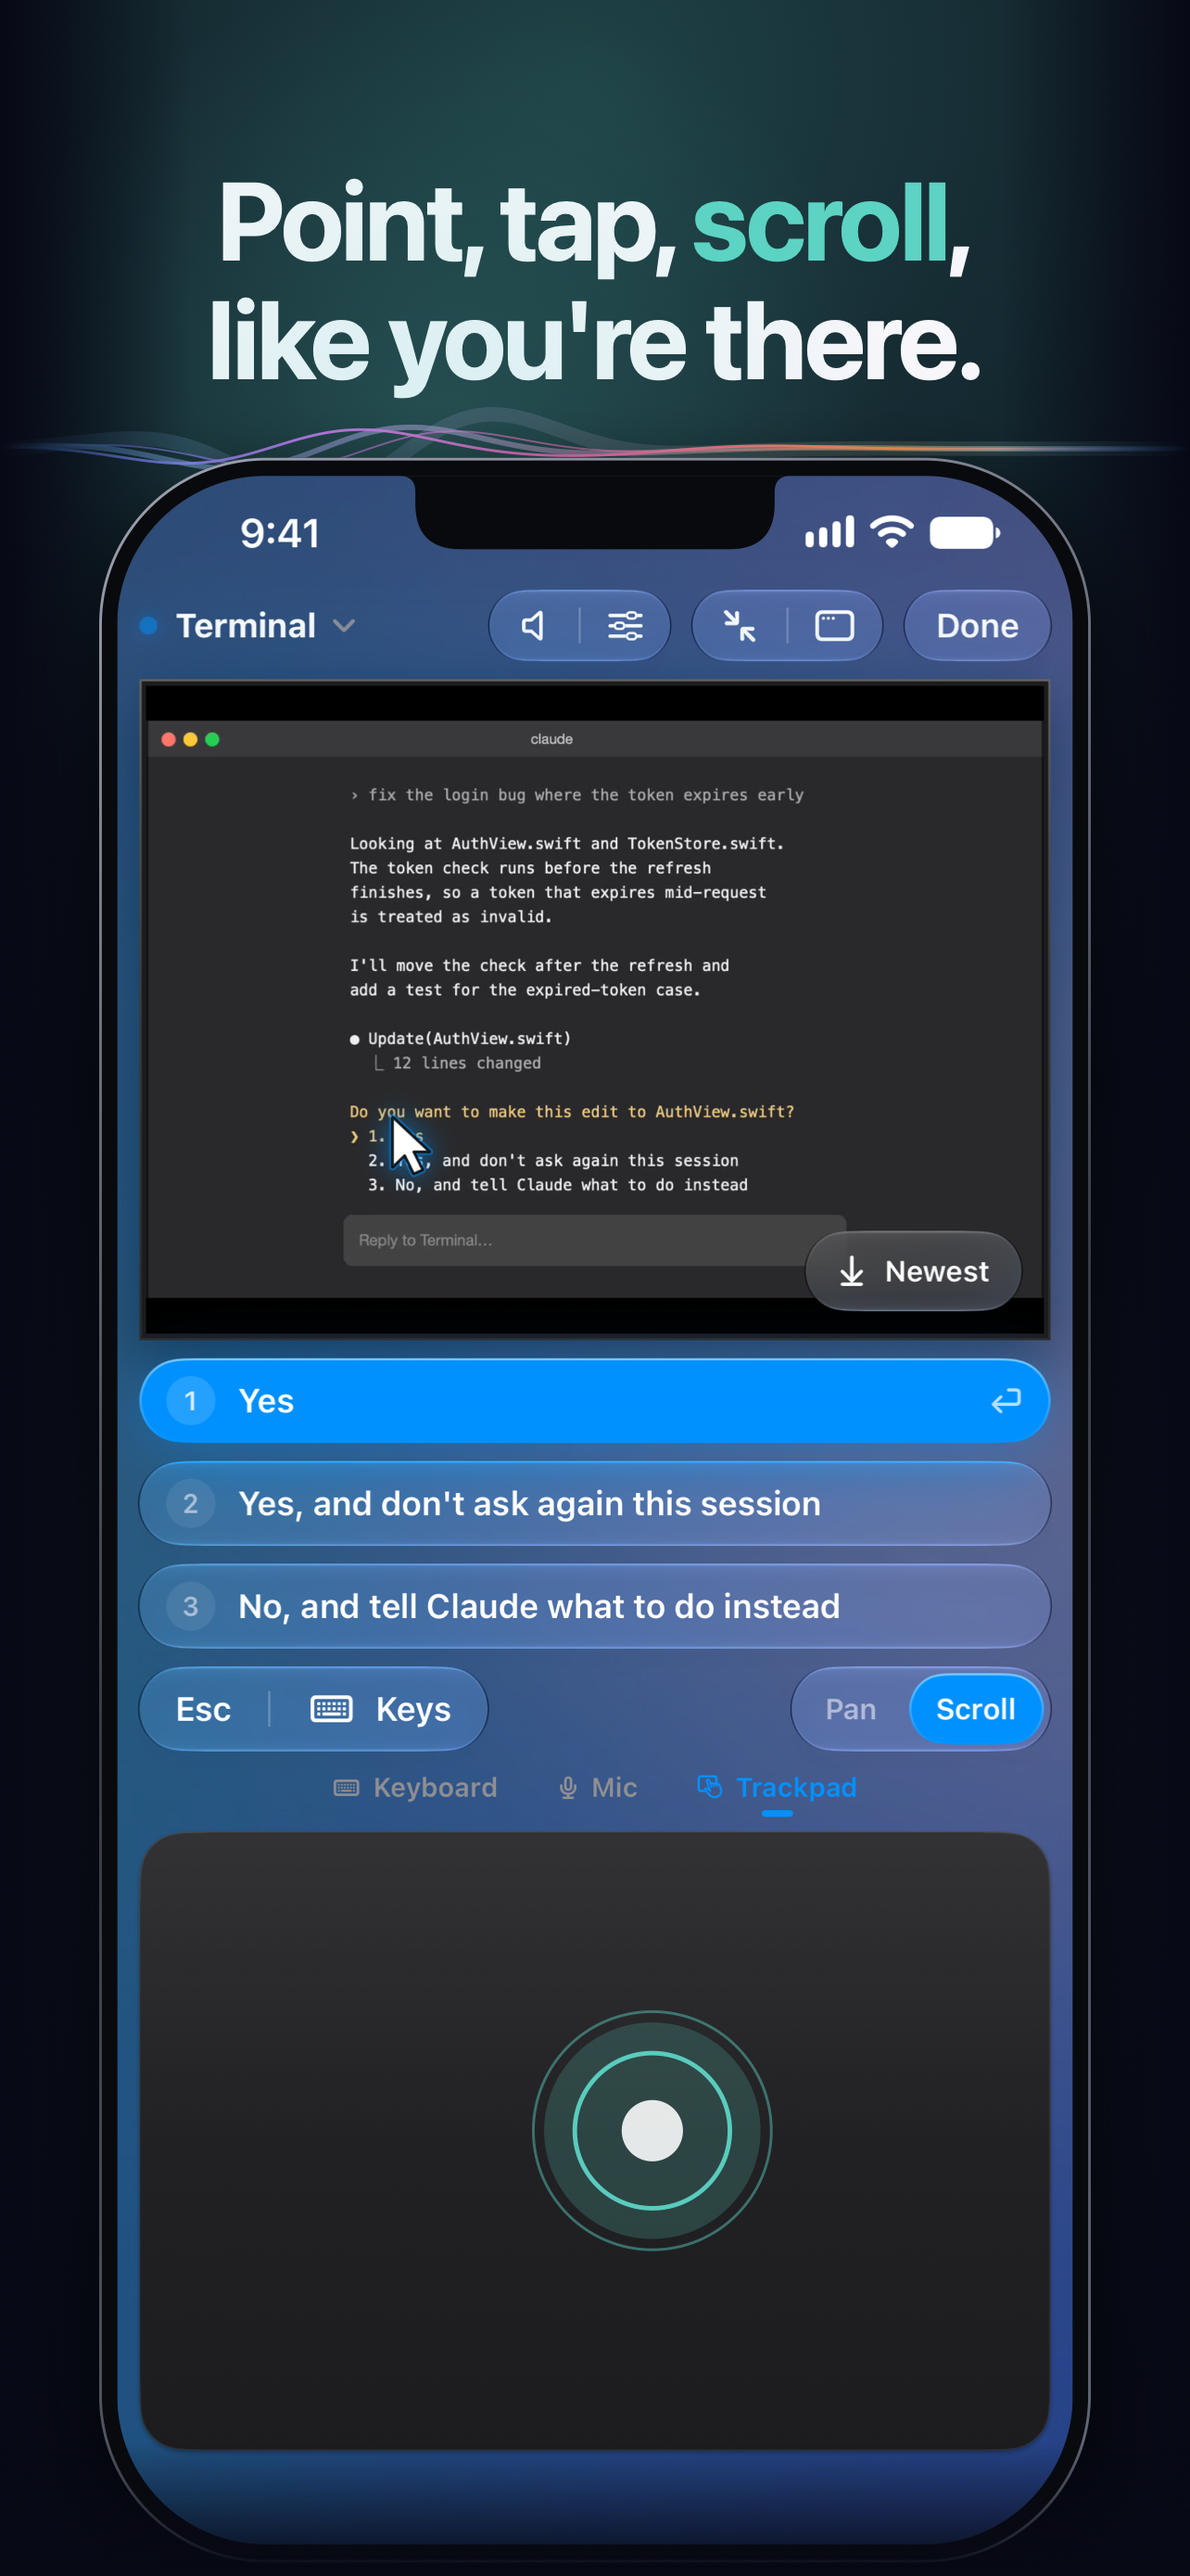
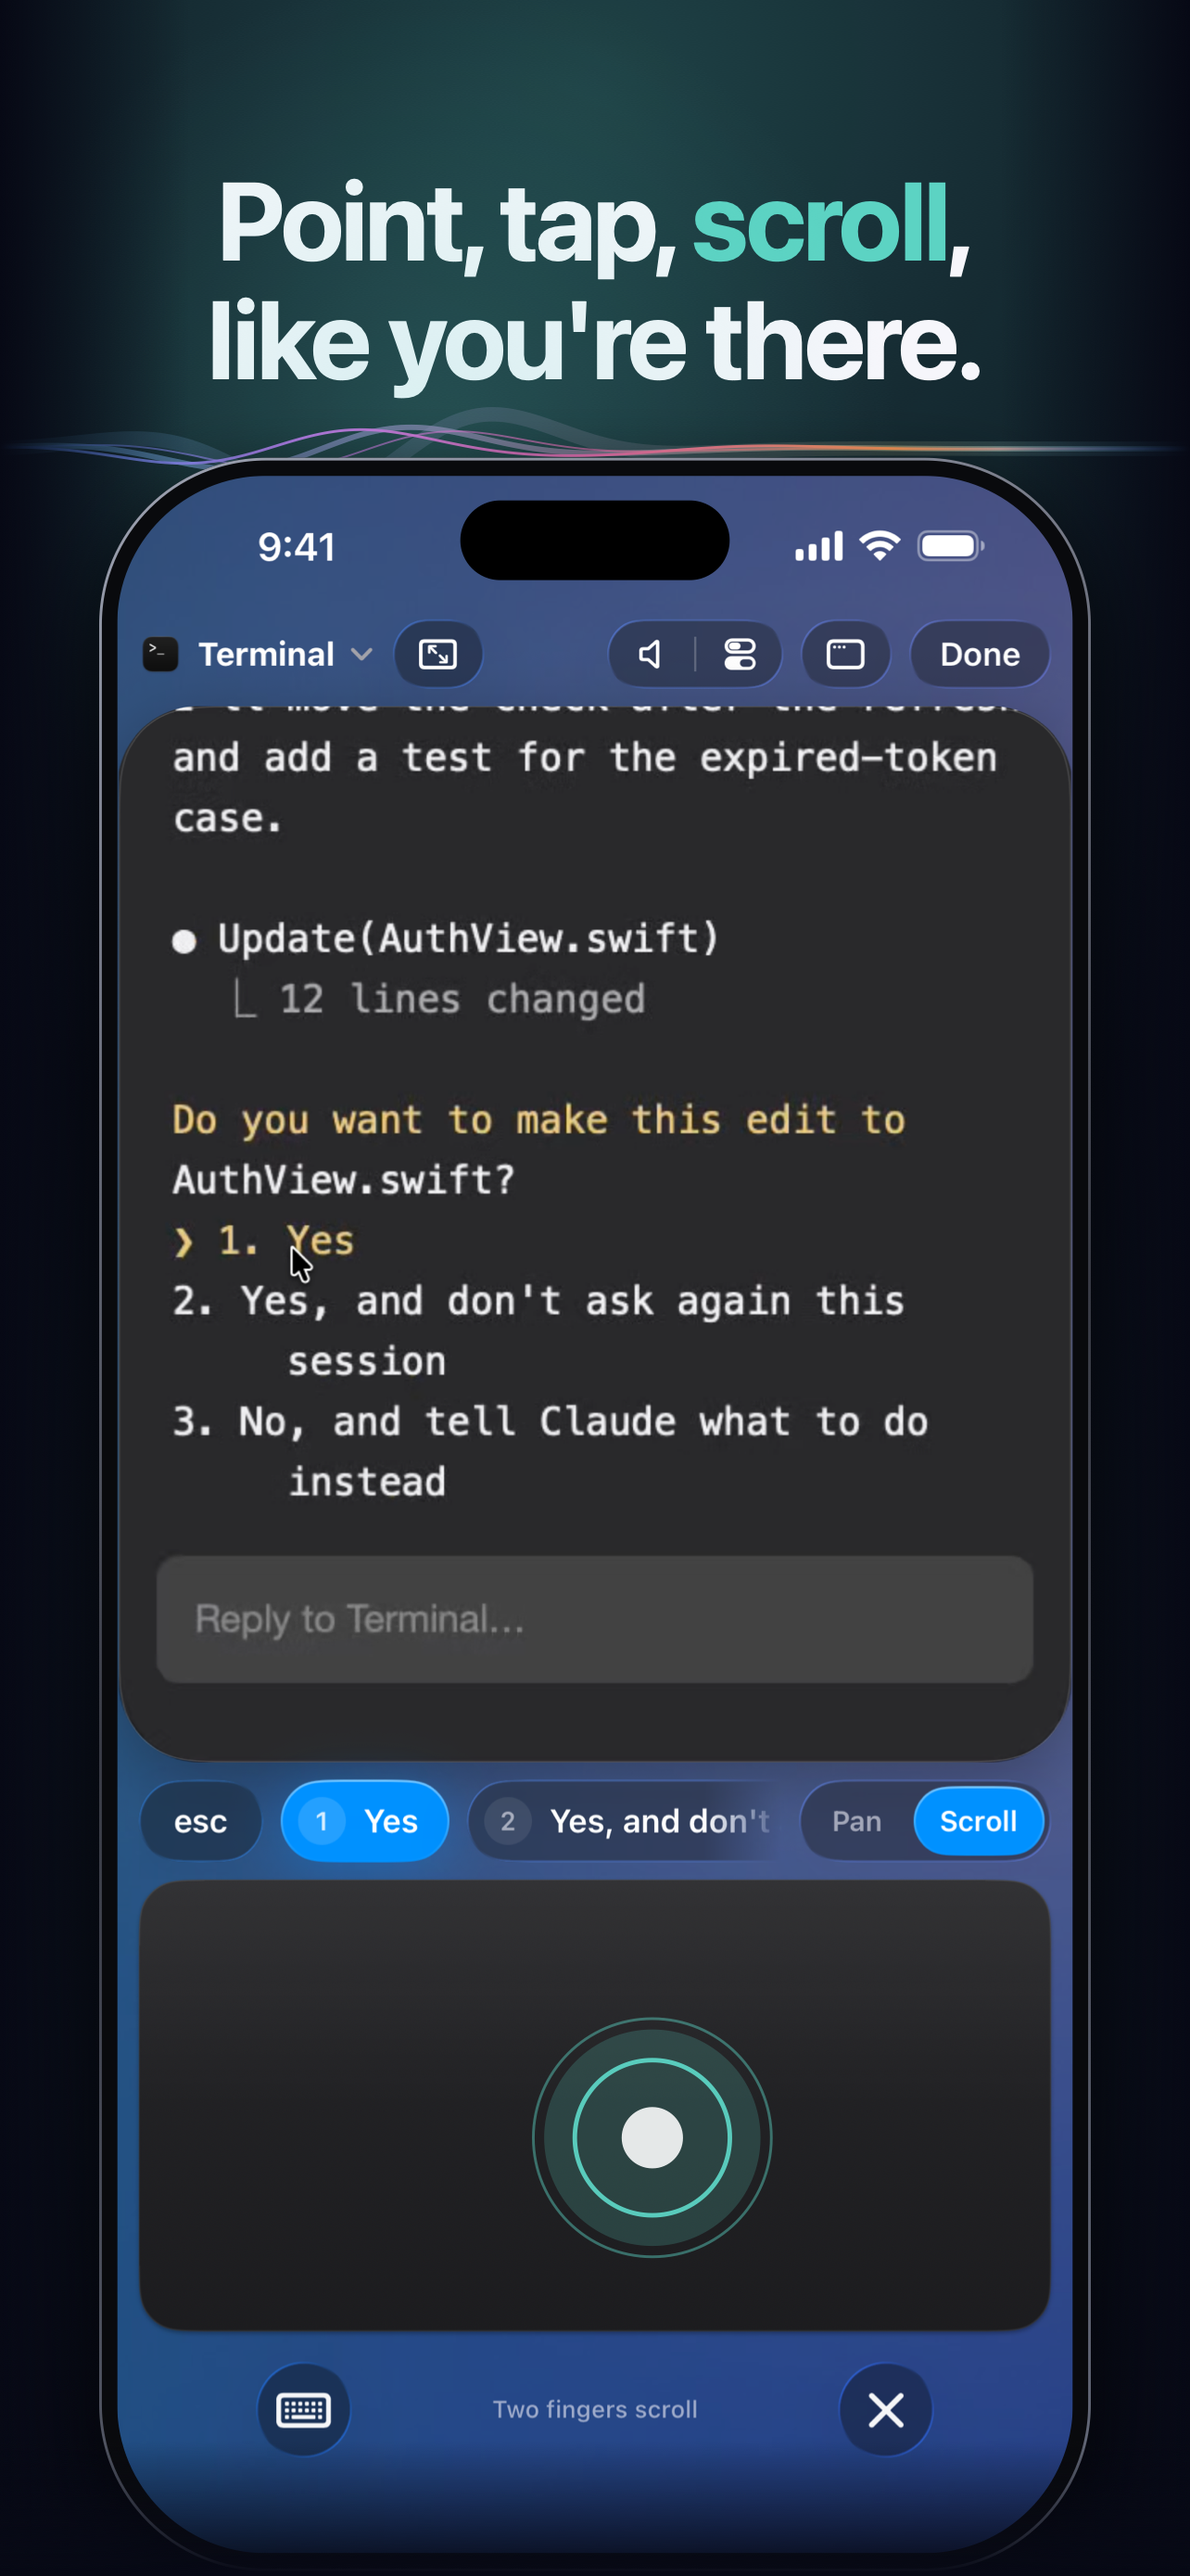
App Store screenshots re-shot from build 44 (6.9, 6.5, Duo) and resubmitted; the demo window wraps at words and can leave its drawn pointer out

Changed region(s): [[0.0935, 0.1857, 0.9034, 0.743], [0.0935, 0.7739, 0.9034, 0.9906]]

diff --git a/Packages/MacrophoneKit/Sources/mpctl/DemoWindow.swift b/Packages/MacrophoneKit/Sources/mpctl/DemoWindow.swift
@@ -32,8 +32,7 @@ final class DemoWindow: @unchecked Sendable {
         "finishes, so a token that expires mid-request",
         "is treated as invalid.",
         "",
-        "I'll move the check after the refresh and",
-        "add a test for the expired-token case.",
+        "I'll move the check after the refresh and add a test for the expired-token case.",
         "",
         "● Update(AuthView.swift)",
         "  ⎿ 12 lines changed",
@@ -194,10 +193,26 @@ final class DemoWindow: @unchecked Sendable {
         let (pointer, pointerOn, dragStart, typedN, heldNames) = lock.sync { (pointerAt, pointerShown, dragFrom, typedCount, heldKeys) }
         // The columns that fit (Menlo 24 is ~14.5 px a character); a longer line wraps.
         let columns = max(10, Int((Double(w) - focus.minX * Double(w) - 34) / 14.5))
+        // At a word where there is one, as an agent's own output wraps (Nov 11 2026: cut by the
+        // column it read "se|ssion", which Vision then read as two words and a store screenshot
+        // showed as a typo); what wraps from an answer or a bullet lines up under its words.
         let all = shown.flatMap { line -> [String] in
-            var rest = Substring(line), out: [String] = []
-            repeat { out.append(String(rest.prefix(columns))); rest = rest.dropFirst(columns) } while !rest.isEmpty
-            return out
+            guard line.count > columns else { return [line] }
+            let indent = String(line.prefix { $0 == " " })
+            let marked = line.dropFirst(indent.count).first.map { "❯›●0123456789".contains($0) } == true
+            let hang = indent + (marked ? "   " : "")
+            var out: [String] = [], cur = ""
+            for word in line.split(separator: " ", omittingEmptySubsequences: false) {
+                let next = cur.isEmpty && out.isEmpty ? String(word) : cur + " " + word
+                if next.count > columns, !cur.trimmingCharacters(in: .whitespaces).isEmpty { out.append(cur); cur = hang + word } else { cur = next }
+            }
+            out.append(cur)
+            // A single word longer than the line still breaks, as a terminal's does.
+            return out.flatMap { piece -> [String] in
+                var rest = Substring(piece), cut: [String] = []
+                repeat { cut.append(String(rest.prefix(columns))); rest = rest.dropFirst(columns) } while !rest.isEmpty
+                return cut
+            }
         }
         guard let ctx = CGContext(data: nil, width: w, height: h, bitsPerComponent: 8, bytesPerRow: 0,
                                   space: CGColorSpaceCreateDeviceRGB(), bitmapInfo: CGImageAlphaInfo.premultipliedLast.rawValue) else { return nil }
@@ -274,7 +289,9 @@ final class DemoWindow: @unchecked Sendable {
             ctx.addLine(to: CGPoint(x: to.x * Double(w), y: Double(h) - to.y * Double(h)))
             ctx.strokePath()
         }
-        if pointerOn, let p = pointer {
+        // (`MPCTL_NO_DRAWN_POINTER=1`: none — the Mac app doesn't draw one into the stream either;
+        // the phone draws the pointer itself. For screenshots.)
+        if pointerOn, let p = pointer, ProcessInfo.processInfo.environment["MPCTL_NO_DRAWN_POINTER"] != "1" {
             // An arrow, as the Mac's own pointer would be drawn into the picture.
             let x = p.x * Double(w), y = Double(h) - p.y * Double(h)
             ctx.setFillColor(CGColor(gray: 1, alpha: 1))

diff --git a/docs/APP_STORE.md b/docs/APP_STORE.md
@@ -9,6 +9,11 @@ after a dictation into a chat; a line on iCloud's private database carrying aler
 are at the 4,000-character limit (3,995). **Found that day: all of sameer.us answered 402
 `DEPLOYMENT_DISABLED`** (Vercel) — the support URL, the privacy policy and the Mac download the
 notes point to were unreachable; it has to be back before review reaches the app.
+**New screenshots the same night** — Sameer: "submit with updated screenshots … we have made a
+lot of app changes". All three sets re-shot from build 44's code and replaced through the API
+(the submission cancelled first — a version waiting for review can't be edited — then submitted
+again: `a4d1396f-…`, Waiting for Review, build 44, release after approval). Captions unchanged.
+sameer.us still answered 402.
 **Resubmitted Nov 2 2026 as 1.0 (5)** after App Review's automated scan asked about "VPN
 functionality" (there is none — answered in the message thread and in the review notes; the
 description's "over your own VPN" became "when you're away from home"). Build 5 is main as of
@@ -281,19 +286,25 @@ OTHER NOTES
 
 ## Screenshots
 
-Three sets, uploaded through the API on Nov 1 2026 (`APP_IPHONE_67` 6.9" 1320 × 2868,
+Three sets, uploaded through the API on Nov 1 2026 and re-shot and replaced on Nov 11 2026 (`APP_IPHONE_67` 6.9" 1320 × 2868,
 `APP_IPHONE_65` 6.5" 1284 × 2778, and `APP_IPHONE_DUO` 2007 × 2853 — the Duo's inner screen; App
 Store Connect took the size). Files: `iOS/docs/store-screenshots/6.9/`, `/6.5/`, `/duo/`, real
 screens captured through the DEBUG hooks against a stand-in Mac (`iOS/scripts/capture-store-shots.sh`,
 `capture-duo-store-shots.sh`) and framed by `iOS/scripts/render-store-shots.swift` (`duo` mode for
 the Duo). RGB, no alpha. No caption names a third-party app or says "Mac".
+To re-shoot: the stand-in Mac is `MPCTL_NO_DRAWN_POINTER=1 mpctl serve --name "Sameer's MacBook"
+--auto-approve --no-attention --rounded --reshape --front-every 0 --state <fresh dir>` (the phone
+draws the pointer itself; the demo's own would be a second one), one fresh `--state` per simulator
+(a pairing URL works once); unpair any older stand-in Mac on the simulator first, or the pairing
+shot lands on the test page. The 6.5" set is rendered from the 6.9" captures. The Duo script turns
+off a fresh simulator's "slide to type" keyboard introduction.
 
 | # | 6.9 / 6.5 | Caption |
 | --- | --- | --- |
 | 1 | `01-hero.png` — a MacBook behind, the phone watching the live Terminal window with the answers (dark) | Your computer, live on your **iPhone**. |
 | 2 | `02-talk.png` — replying while watching, the words appearing (light) | **Say** what's next. It's typed and sent. |
 | 3 | `03-tap.png` — the trackpad page, the pointer on "1. Yes" (dark) | Point, tap, **scroll**, like you're there. |
-| 4 | `04-apps.png` — at rest: menu bar, wallpaper, the Dock and the options bar magnified (light) | Every app in your **Dock**. |
+| 4 | `04-apps.png` — at rest: menu bar, wallpaper, the window's card, the Dock and the options bar magnified (light) | Every app in your **Dock**. |
 | 5 | `05-open.png` — Open an App | Open **any app** on your computer. |
 | 6 | `06-cleanup.png` — Settings' Cleanup with a Heard / Sent card | Ums and uhs, **cleaned up**. |
 | 7 | `07-private.png` — setup: scan the code | **Private.** No account. No cloud. |
@@ -304,7 +315,7 @@ the Duo). RGB, no alpha. No caption names a third-party app or says "Mac".
 | 2 | `02-keyboard.png` — the same with the Mac keyboard | A full **keyboard** for your computer. |
 | 3 | `03-book.png` — the book: the window left, keys, trackpad and mic right | Open it up. **Everything** in hand. |
 | 4 | `04-open.png` — flat: the glance left, the cover's view right | Watch on one side, **talk** on the other. |
-| 5 | `05-cover.png` — the cover at rest | Closed, it's all in one **hand**. |
+| 5 | `05-cover.png` — the cover with the window live: its answers, keyboard · mic · trackpad, the vertical bar | Closed, it's all in one **hand**. |
 
 ## Third-party names (guidelines 2.3.7 / 5.2.1)
 

diff --git a/CLAUDE.md b/CLAUDE.md
@@ -8,6 +8,15 @@ templates and the Delivery pane were removed on purpose — don't bring them bac
 The original spec is `docs/SPEC.md`. Push to `main`.
 
 
+## App Store: 1.0 (44) waiting for review, with new screenshots (Nov 11 2026)
+
+Sameer: "submit the latest build", then "submit with updated screenshots". Version 1.0 carries
+build 44 and all three screenshot sets re-shot from that code (`iOS/docs/store-screenshots/`;
+how in `docs/APP_STORE.md` › Screenshots). `mpctl serve`'s demo window wraps its text at words
+now and `MPCTL_NO_DRAWN_POINTER=1` leaves its own drawn arrow out (the phone draws the pointer).
+**sameer.us answers 402 `DEPLOYMENT_DISABLED`** (Vercel) — support URL, privacy policy and the Mac
+download; his to fix before review reaches the app.
+
 ## The picture keeps its full width at home (Nov 10 2026, later) — amends the wire sizer below
 
 Sameer on build 44: latency "is good", but on the Duo's inner screen (portrait, the laptop) "it's
